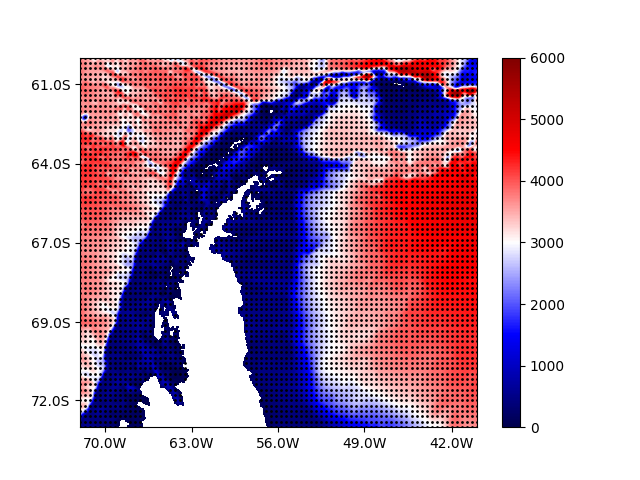
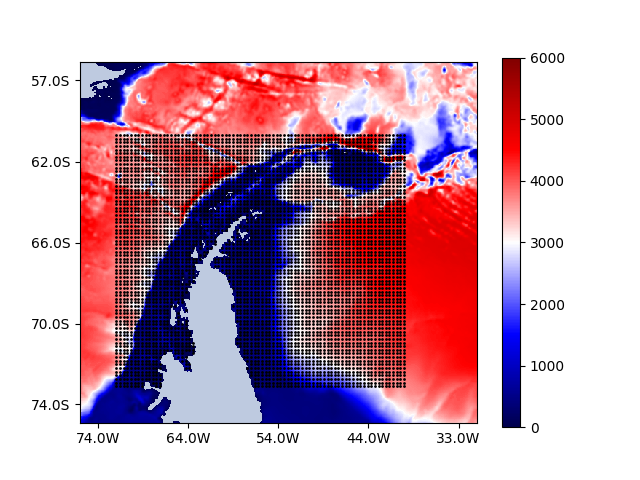
High resolution plotting

diff --git a/plot_trajectory.py b/plot_trajectory.py
@@ -1,20 +1,54 @@
 import cartopy.crs as ccrs
+import cartopy.feature as cfeature
 import matplotlib.pyplot as plt
 import numpy as np
-from Krillmod.get_trajectory import geo2grid
+from mpl_toolkits.basemap import Basemap
+
+from Krillmod.get_trajectory import geo2grid, get_traj, store_traj
 
 
-def plot_geo(lat1, lon1):
-    ax = plt.axes(projection=ccrs.PlateCarree())
+def plot_geo(file):
+    store = store_traj(file)
+
+    vals = get_traj(store, 0)
+    # plot_grid(vals)
+
+    x1 = vals['xi']
+    y1 = vals['yi']
+    idx = (x1 > 0)
+    x2 = x1[idx]
+    y2 = y1[idx]
+    lat1, lon1 = geo2grid(x2, y2, 'get_bl')
+    #fig = plt.figure(figsize=(8, 6))
+    lonW=-85
+    lonE=-29
+    latS=-74
+    latN=-54
+    coordinates = (lonW, lonE, latS, latN)
+    res = 'i'
+    m = Basemap(projection='merc',
+                llcrnrlon=coordinates[0], llcrnrlat=coordinates[2],
+                urcrnrlon=coordinates[1], urcrnrlat=coordinates[3],
+                resolution=res)
+    m.drawcoastlines(linewidth=.5)
+    m.drawmeridians(np.arange(-180., 180., 10.), labels=[False, False, False, True])
+    m.drawparallels(np.arange(-90., 90., 4.), labels=[True, False, False, False])
+    #m.etopo()
+    m.shadedrelief()
+    x, y = m(lon1, lat1)
+    m.scatter(x, y, 3, marker='o', color='r')
+    file = 'C:/Users/ciank/PycharmProjects/sinmod/Krillmod/results/init_geo.png'
+    plt.savefig(file)
     # ax.set_extent([125, 150, 35, 63])
     #     ax.stock_img()
     #
     #     ax.add_feature(cfeature.LAND)  # If I comment this => all ok, but I need
     #     ax.add_feature(cfeature.LAKES)
     #     ax.add_feature(cfeature.RIVERS)
-    ax.coastlines()
+    #ax.coastlines(resolution='10m')
+    # coast = cfeature.GSHHSFeature(scale='coarse', levels=[1])
+    # ax.add_feature(coast)
     #     ax.coastlines()
-    ax.scatter(lon1, lat1, transform=ccrs.PlateCarree())
     return
 
 
@@ -24,15 +58,21 @@ def plot_dom_path(df):
     return
 
 
-def plot_grid(vals):
+def plot_grid(file):
+
+
+    store = store_traj(file)
+    vals = get_traj(store, 0)
 
     x1 = vals['xi']
     y1 = vals['yi']
     idx = (x1 > 0)
     x2 = x1[idx]
     y2 = y1[idx]
-    idxlimx = [min(x2[:]), max(x2[:])]
-    idxlimy = [min(y2[:]), max(y2[:])]
+    fv1 = 50
+    fv2 = 100
+    idxlimx = [min(x2[:])-fv1, max(x2[:])+fv2]
+    idxlimy = [min(y2[:])-fv1, max(y2[:])+fv2]
     dp = vals['dp']
 
     plt.pcolor(dp)
@@ -46,7 +86,7 @@ def plot_grid(vals):
     plt.xlim([idxlimx[0], idxlimx[1]])
     file = 'C:/Users/ciank/PycharmProjects/sinmod/Krillmod/results/init_grid.png'
     plt.savefig(file)
-    open(file)
+    # open(file)
     # plt.ioff()
     # plt.show()
     return

diff --git a/krillmod.py b/krillmod.py
@@ -7,12 +7,13 @@ from Krillmod.plot_trajectory import *
 # file = 'C:/Users/ciank/OneDrive - NTNU/PostDoc/d_Data visualization/trajectory.nc'
 
 file = 'A:/Cian_sinmod/antkrill_sim/trajectory.nc'
-store = store_traj(file)
+plot_geo(file)
+#store = store_traj(file)
 # df = dom_path(store)
 # plot_dom_path(df)
 
-vals = get_traj(store, 0)
-plot_grid(vals)
+#
+plot_grid(file)
 
 
 
@@ -22,18 +23,4 @@ plot_grid(vals)
 
 # field = dom_path(store)
 
-#vals = get_traj(store, 150)
-#plot_grid(vals)
-
-# x1 = vals['xi']
-# y1 = vals['yi']
-# idx = (x1 > 0)
-# x2 = x1[idx]
-# y2 = y1[idx]
-# lat1, lon1 = geo2grid(x2, y2, 'get_bl')
-#
-# plot_geo(lat1, lon1)
-#
-#
-# x2, y2 = geo2grid(lat1, lon1, 'get_xy')
 
